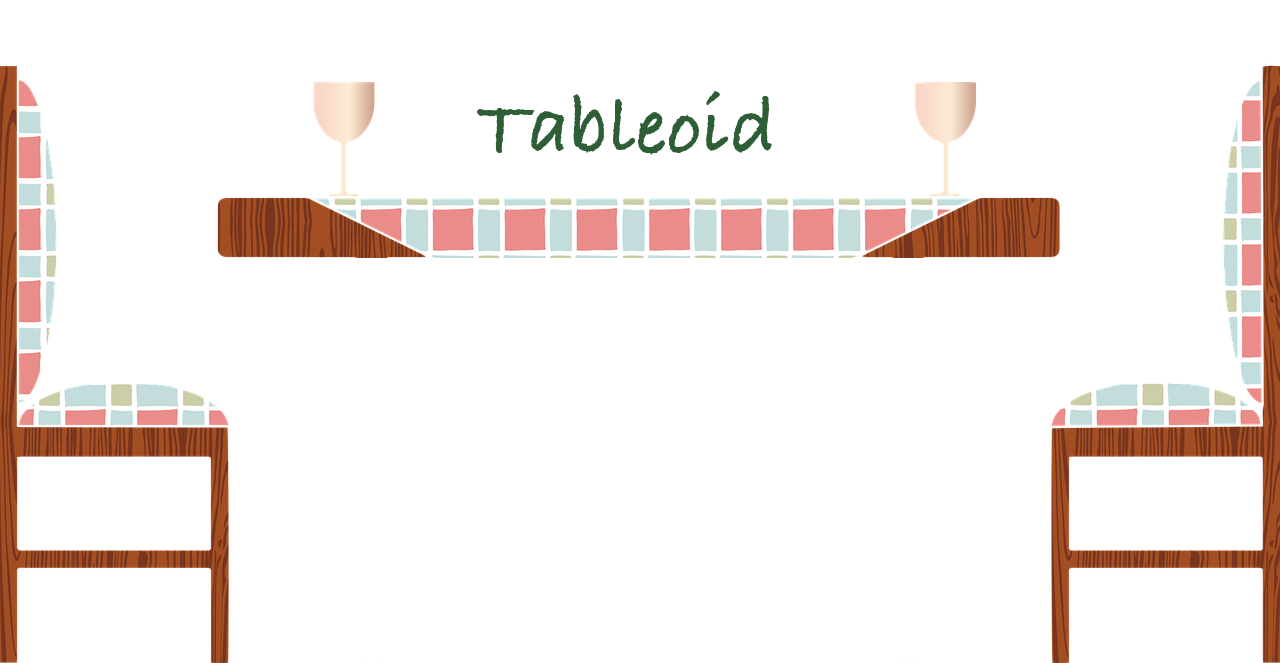
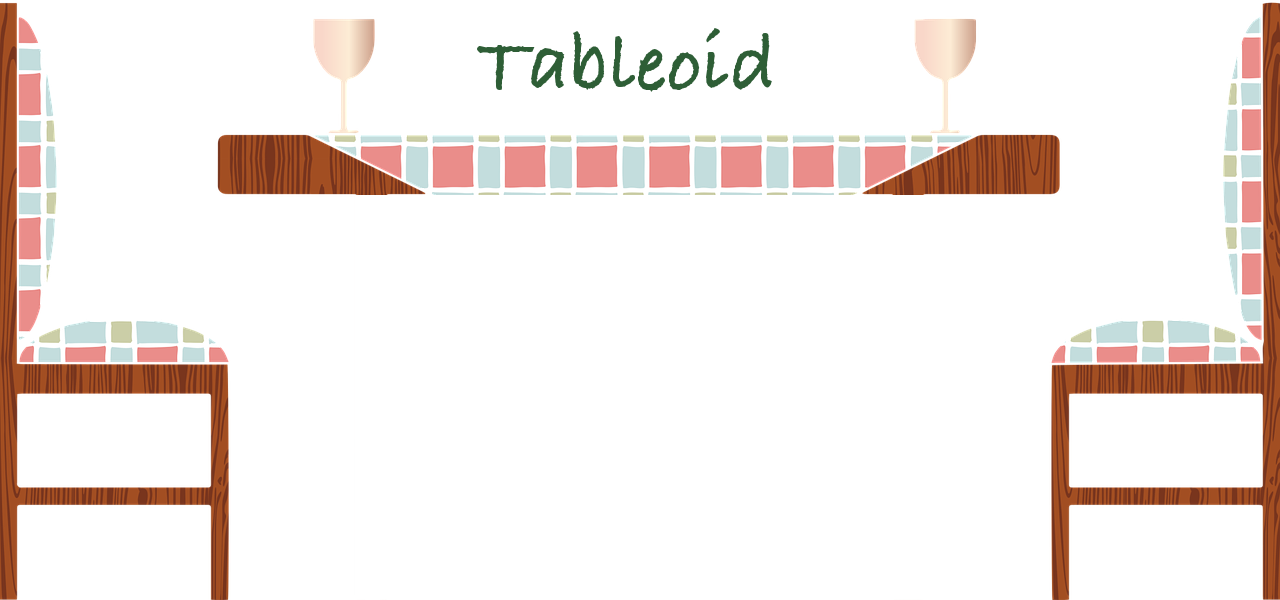
Add filter support. Add search support.

Changed region(s): [[0.1562, 0.03, 0.8438, 0.39], [0.8125, 0.0, 1.0, 0.87], [0.0, 0.0, 0.1875, 0.87]]

diff --git a/src/components/tables/Table.tsx b/src/components/tables/Table.tsx
@@ -1,29 +1,40 @@
 import React, { useState } from 'react'
 import { Styles } from '../../styles/Styles'
 import { Column } from './data/Column'
-import { ORDER } from './data/Order'
+import { ColumnFilter, ORDER } from './data/ColumnConfiguration'
 import HeaderColumn from './HeaderColumn'
 
 const Table = (props: any) => {
-  const { columns, data, defaultOrder, resultsPerPage } = props
+  const { columns, data, defaultConfiguration, resultsPerPage } = props
   const [page, setPage] = useState(1)
-  const [columnOrder, setColumnOrder] = useState(defaultOrder)
+  const [columnConfiguration, setColumnConfiguration] = useState(
+    defaultConfiguration
+  )
 
-  // filter data on header ordering, will need
-  // to change if other headers need to be orderable
-  // at the same time
+  // sort data on header ordering
   var orderedData = [...data]
-  if (columnOrder.column !== '' && columnOrder.order !== ORDER.NONE) {
+  if (
+    columnConfiguration.column !== '' &&
+    columnConfiguration.order !== ORDER.NONE
+  ) {
     orderedData.sort((a: any, b: any) => {
-      const column = columnOrder.column
-      return columnOrder.order === ORDER.ASC
+      const column = columnConfiguration.column
+      return columnConfiguration.order === ORDER.ASC
         ? a[column].localeCompare(b[column])
         : b.name.localeCompare(a[column])
     })
   }
 
+  // filter data on header filter values
+  var filteredData = [...orderedData]
+  columnConfiguration.filters.forEach((f: ColumnFilter) => {
+    filteredData = filteredData.filter((row: any) =>
+      row[f.column].toLowerCase().includes(f.filter.toLowerCase())
+    )
+  })
+
   // setup page information
-  const displayData = orderedData.slice(
+  const displayData = filteredData.slice(
     (page - 1) * resultsPerPage,
     (page - 1) * resultsPerPage + resultsPerPage
   )
@@ -36,7 +47,7 @@ const Table = (props: any) => {
     setPage(page - 1)
   }
 
-  const pages = Math.ceil(data.length / resultsPerPage)
+  const pages = Math.ceil(displayData.length / resultsPerPage)
 
   return (
     <>
@@ -46,8 +57,8 @@ const Table = (props: any) => {
             {columns.map((column: Column) => (
               <HeaderColumn
                 key={column.name}
-                setColumnOrder={setColumnOrder}
-                columnOrder={columnOrder}
+                setColumnConfiguration={setColumnConfiguration}
+                columnConfiguration={columnConfiguration}
                 column={column}
               />
             ))}
@@ -67,7 +78,7 @@ const Table = (props: any) => {
           ))}
         </tbody>
       </table>
-      <div style={{ ...Styles.horizontalFill, padding: 10 }}>
+      <div style={{ ...Styles.horizontalFill, padding: 5 }}>
         <button disabled={page === 1} onClick={() => prevPage()}>
           <i className='fas fa-chevron-left' />
         </button>

diff --git a/src/components/tables/HeaderColumn.tsx b/src/components/tables/HeaderColumn.tsx
@@ -1,11 +1,12 @@
 import React from 'react'
-import { ORDER } from './data/Order'
+import { Styles } from '../../styles/Styles'
+import { ColumnFilter, ORDER } from './data/ColumnConfiguration'
 
 const HeaderColumn = (props: any) => {
-  const { column, setColumnOrder, columnOrder } = props
+  const { column, setColumnConfiguration, columnConfiguration } = props
 
   var icon = ''
-  switch (columnOrder.order) {
+  switch (columnConfiguration.order) {
     case ORDER.ASC:
       icon = 'fas fa-chevron-up'
       break
@@ -19,7 +20,7 @@ const HeaderColumn = (props: any) => {
 
   const toggleOrder = () => {
     var nextOrder = ORDER.NONE
-    switch (columnOrder.order) {
+    switch (columnConfiguration.order) {
       case ORDER.ASC:
         nextOrder = ORDER.NONE
         break
@@ -32,19 +33,41 @@ const HeaderColumn = (props: any) => {
       default:
         break
     }
-    setColumnOrder({ column: column.accessor, order: nextOrder })
+    setColumnConfiguration({
+      ...columnConfiguration,
+      column: column.accessor,
+      order: nextOrder
+    })
+  }
+
+  const updateColumnConfiguration = (value: string) => {
+    const otherFilters = columnConfiguration.filters.filter(
+      (f: ColumnFilter) => f.column !== column.accessor
+    )
+    const newConfig = {
+      ...columnConfiguration,
+      filters: [{ column: column.accessor, filter: value }, ...otherFilters]
+    }
+    setColumnConfiguration(newConfig)
   }
 
   return (
     <th>
-      {column.name}
-      {column.sort ? (
-        <i
-          onClick={() => toggleOrder()}
-          style={{ position: 'relative', padding: 5, top: 2 }}
-          className={'fas ' + icon}
-        />
-      ) : null}
+      <div style={Styles.columnContainer}>
+        {column.name}
+        {column.sort ? (
+          <i
+            onClick={() => toggleOrder()}
+            style={{ position: 'relative', padding: 5, top: 2 }}
+            className={'fas ' + icon}
+          />
+        ) : null}
+        {column.filter ? (
+          <input
+            onChange={(e: any) => updateColumnConfiguration(e.target.value)}
+          ></input>
+        ) : null}
+      </div>
     </th>
   )
 }

diff --git a/src/components/Restaurants.tsx b/src/components/Restaurants.tsx
@@ -1,29 +1,35 @@
-import React from 'react'
+import React, { useState } from 'react'
 import useRestaurants from '../hooks/useRestaurants'
 import { Styles } from '../styles/Styles'
-import { ORDER } from './tables/data/Order'
+import Search from './Search'
+import { ORDER } from './tables/data/ColumnConfiguration'
 import Table from './tables/Table'
 
 const Restaurants = (props: any) => {
-  const restaurants = useRestaurants()
+  const [search, setSearch] = useState('')
+  const restaurants = useRestaurants(search)
 
   const columns = [
     { name: 'Name', sort: true, accessor: 'name' },
     { name: 'City', accessor: 'city' },
-    { name: 'State', accessor: 'state' },
-    { name: 'Genre', accessor: 'genre' }
+    { name: 'State', accessor: 'state', filter: true },
+    { name: 'Genre', accessor: 'genre', filter: true }
   ]
 
   return (
     <div style={Styles.tableContainer}>
-      <span style={{ ...Styles.bold, ...Styles.fontHeader }}>Selection</span>
+      <Search
+        updateSearchFilter={(val: string) => setSearch(val)}
+        search={search}
+      />
       <Table
         resultsPerPage={10}
         columns={columns}
         data={restaurants}
-        defaultOrder={{
+        defaultConfiguration={{
           column: 'name',
-          order: ORDER.ASC
+          order: ORDER.ASC,
+          filters: []
         }}
       />
     </div>

diff --git a/src/hooks/useRestaurants.ts b/src/hooks/useRestaurants.ts
@@ -1,15 +1,24 @@
-import {useState} from 'react'
-import { getRestaurants } from '../api/restaurants/RestaurantsAPI';
+import { useState } from 'react'
+import { getRestaurants } from '../api/restaurants/RestaurantsAPI'
 
-const useRestaurants = () => {
-    const [restaurants, setRestaurants] = useState([]);
-    if(restaurants.length === 0) {
-        getRestaurants().then(data => setRestaurants(data))
-    }
-    return restaurants.map((r: any) => {
-        r.genre = r.genre.replaceAll(',', ', ')
-        return r
-    });
+const useRestaurants = (filter: string) => {
+  const [restaurants, setRestaurants] = useState([])
+  if (restaurants.length === 0) {
+    getRestaurants().then(data => setRestaurants(data))
+  }
+  var adjustedResults = restaurants.map((r: any) => {
+    r.genre = r.genre.replaceAll(',', ', ')
+    return r
+  })
+  if (filter && filter !== '') {
+    adjustedResults = adjustedResults.filter(
+      (r: any) =>
+        r.name.toLowerCase().includes(filter.toLowerCase()) ||
+        r.city.toLowerCase().includes(filter.toLowerCase()) ||
+        r.genre.toLowerCase().includes(filter.toLowerCase())
+    )
+  }
+  return adjustedResults
 }
 
 export default useRestaurants

diff --git a/src/components/Search.tsx b/src/components/Search.tsx
@@ -1,0 +1,33 @@
+import React, { useState } from 'react'
+import { Styles } from '../styles/Styles'
+
+const Search = (props: any) => {
+  const [search, setSearch] = useState('')
+  const { updateSearchFilter } = props
+  return (
+    <div style={Styles.searchContainer}>
+      <input
+        style={Styles.searchInput}
+        placeholder='Search restaurants...'
+        value={search}
+        onChange={(e: any) => {
+          setSearch(e.target.value)
+          // clear search results
+          if (e.target.value === '') {
+            updateSearchFilter('')
+          }
+        }}
+        onKeyDown={(e: any) => {
+          if (e.keyCode === 13) {
+            updateSearchFilter(e.target.value)
+          }
+        }}
+      ></input>
+      <button onClick={() => updateSearchFilter(search)}>
+        <i className='fas fa-search' />
+      </button>
+    </div>
+  )
+}
+
+export default Search

diff --git a/src/styles/Styles.ts b/src/styles/Styles.ts
@@ -2,7 +2,8 @@ import background from '../images/tableoid.png'
 
 export const Styles = {
     siteContainer: {
-        background: `url(${background}) 50% 50% / contain no-repeat`,
+        background: `url(${background}) 50% 0% / contain no-repeat`,
+        backgroundPosition: 'center top',
         display: 'flex',
         alignItems: 'center',
         justifyContent: 'center',
@@ -24,7 +25,7 @@ export const Styles = {
         alignItems: 'center',
         justifyContent: 'center',
         flexDirection: 'column' as 'column',
-        top: '30vh',
+        top: '25vh',
         maxWidth: '50vw',
     },
     fontHeader: {
@@ -49,5 +50,11 @@ export const Styles = {
     },
     table: {
         backgroundColor: 'cornsilk',
+    },
+    searchInput: {
+        width: 250
+    },
+    searchContainer: {
+        padding: 5
     }
 }

diff --git a/src/components/tables/data/ColumnConfiguration.ts b/src/components/tables/data/ColumnConfiguration.ts
@@ -1,0 +1,16 @@
+export enum ORDER {
+    ASC,
+    DESC,
+    NONE
+}
+
+export interface ColumnFilter {
+    column: string,
+    filter: string
+}
+
+export interface ColumnConfiguration {
+    order: ORDER,
+    column: string,
+    filters: [ColumnFilter]
+}

diff --git a/src/components/tables/data/Column.ts b/src/components/tables/data/Column.ts
@@ -1,5 +1,6 @@
 export interface Column {
     name: string,
     sort?: boolean,
+    filter?: boolean,
     accessor: string | Function
 }
